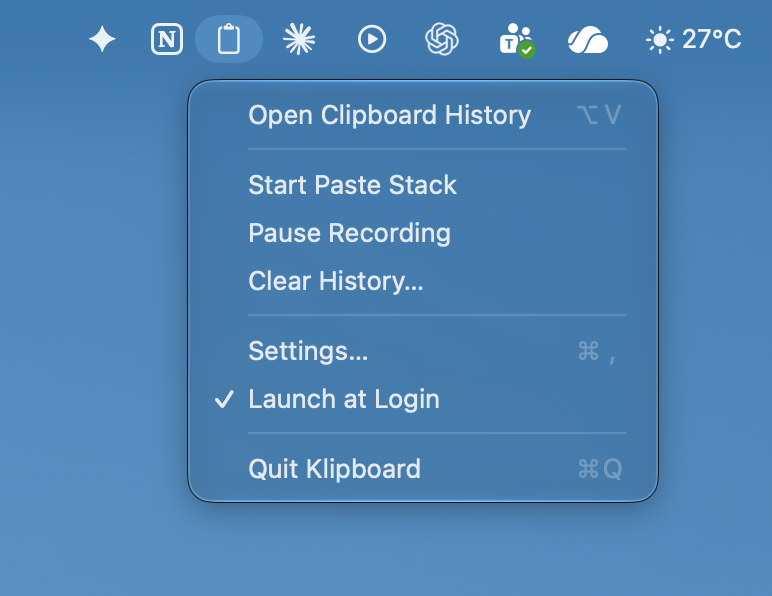
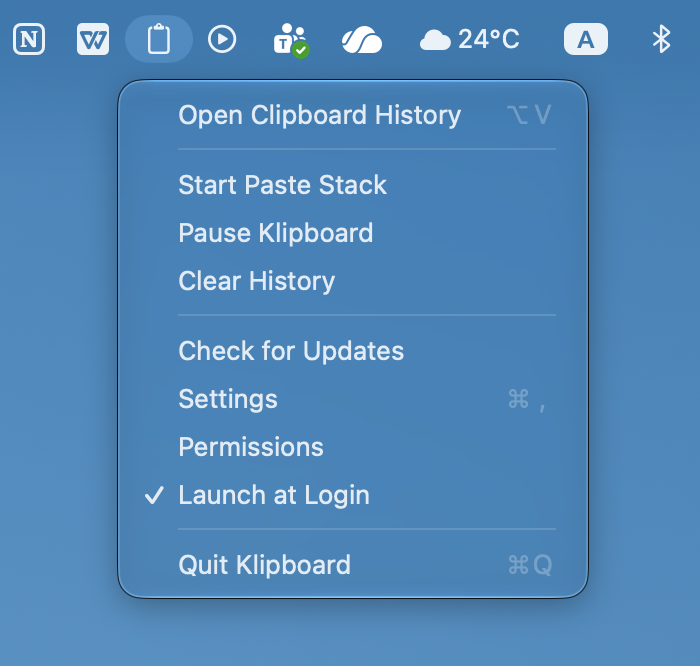
Update website screenshots

diff --git a/docs/index.html b/docs/index.html
@@ -711,7 +711,7 @@
 
         <div class="hero-media">
           <figure class="shot">
-            <img src="screenshot-panel.png" width="1892" height="884" alt="Klipboard panel showing clipboard history" />
+            <img src="screenshot-panel.png" width="1828" height="982" alt="Klipboard panel showing clipboard history" />
             <figcaption>Press Option-V anywhere to open the panel and paste directly into the active app.</figcaption>
           </figure>
         </div>
@@ -800,7 +800,7 @@
 
             <div class="settings-shot-col">
               <figure class="shot shot-small">
-                <img src="screenshot-menu.png" width="772" height="596" alt="Klipboard menu bar menu" />
+                <img src="screenshot-menu.png" width="700" height="666" alt="Klipboard menu bar menu" />
                 <figcaption>The menu bar menu provides quick access to Settings, Paste Stack, Pause, and updates.</figcaption>
               </figure>
             </div>
